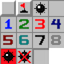
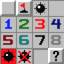
Added question mark to tile glyphs.

diff --git a/README.MD b/README.MD
@@ -1,6 +1,9 @@
 # Minesweeper in Javascript
 
 ## To Do:
+  - Add question marks.
+  - Get the faces to update on clicks, wins, and losses.
+
   - Get the user to be able to adjust various settings.
   - Get the decimals to display in the numbers.
   - Get the decimals to display negative numbers.
